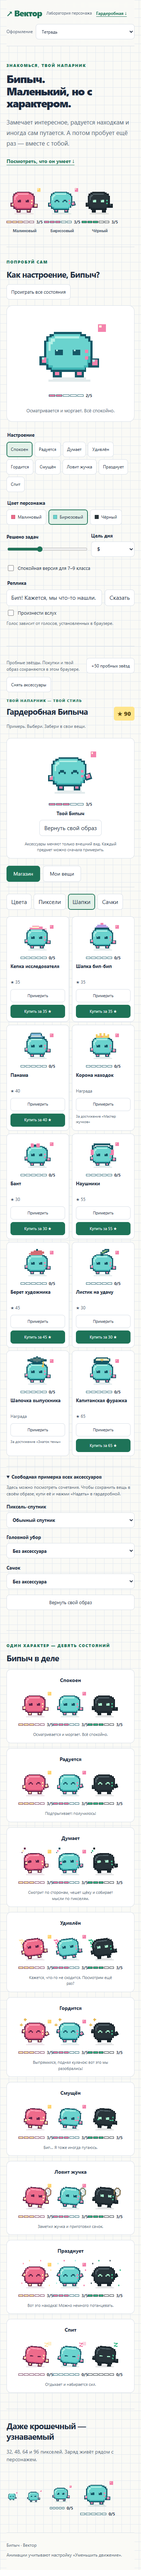
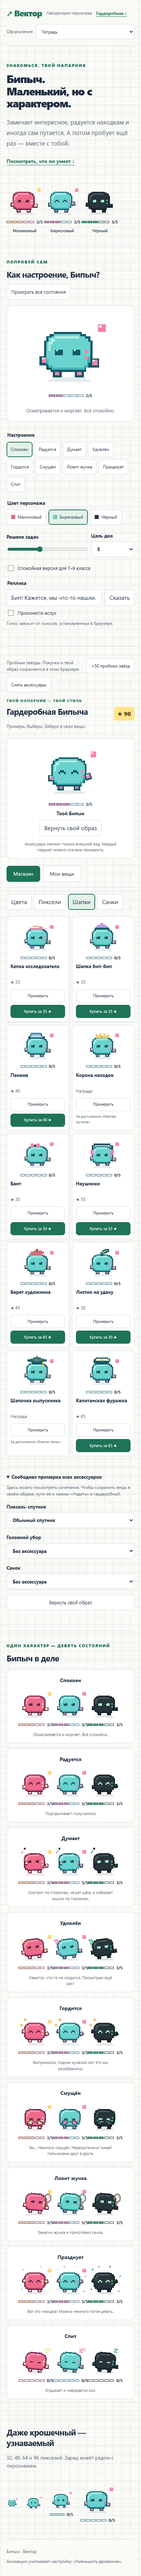
Animate shy fingertip gesture with both paws and parked net

diff --git a/styles/drobik.css b/styles/drobik.css
@@ -7,7 +7,7 @@
 .bipych-actor{transform-origin:50% 100%}
 .bipych-shadow{opacity:.12}
 [data-skin=orbit] .bipych[data-color=black] .bipych-outline{stroke:#77909A;stroke-width:1}
-.bipych-blush,.bipych-question,.bipych-zzz,.bipych-thought,.bipych-pride,.bipych-confetti,.bipych-eyes-happy,.bipych-eyes-sleep,.bipych-net{display:none}
+.bipych-blush,.bipych-question,.bipych-zzz,.bipych-thought,.bipych-pride,.bipych-shy-hands,.bipych-confetti,.bipych-eyes-happy,.bipych-eyes-sleep,.bipych-net{display:none}
 .bipych-hand-right{transform-box:view-box;transform-origin:116px 90px}
 .bipych-net[data-equipped=true]{display:block}
 .bipych[data-state=idle] .bipych-actor{animation:bipych-breathe 4s steps(3,end) infinite}
@@ -35,10 +35,15 @@
 .bipych-pride-star-1{animation-delay:-.3s}
 .bipych[data-state=proud] .bipych-satellite{animation:bipych-proud-pixel var(--bipych-proud-speed) steps(4,end) infinite}
 .bipych[data-state=shy] .bipych-blush{display:block}
-.bipych[data-state=shy] .bipych-eyes-normal{transform:translate(-4px,4px)}
-.bipych[data-state=shy] .bipych-actor{transform:rotate(4deg)}
-.bipych[data-state=shy] .bipych-hand-left{transform:translate(4px,0)}
-.bipych[data-state=shy] .bipych-hand-right{transform:translate(-4px,0)}
+.bipych[data-state=shy]{--bipych-shy-speed:3.2s}
+.bipych[data-state=shy] .bipych-eyes-normal{transform:translate(0,5px) scaleY(.85)}
+.bipych[data-state=shy] .bipych-actor{transform:translateY(2px) rotate(2deg);animation:bipych-shy-sway var(--bipych-shy-speed) steps(4,end) infinite}
+.bipych[data-state=shy] .bipych-hand-left,.bipych[data-state=shy] .bipych-hand-right{visibility:hidden}
+.bipych[data-state=shy] .bipych-shy-hands{display:block}
+.bipych-shy-hand-left,.bipych-shy-hand-right{transform-box:view-box;transform-origin:68px 88px}
+.bipych-shy-hand-left{transform:translateX(3px);animation:bipych-shy-left var(--bipych-shy-speed,3.2s) steps(4,end) infinite}
+.bipych-shy-hand-right{transform:translateX(-3px);animation:bipych-shy-right var(--bipych-shy-speed,3.2s) steps(4,end) infinite}
+.bipych[data-state=shy] .bipych-net[data-equipped=true]{visibility:visible;transform:translate(6px,22px)}
 .bipych[data-state=catching] .bipych-net{display:block}
 .bipych[data-state=catching] .bipych-hand-right{animation:bipych-catch 1.7s steps(5,end) infinite}
 .bipych[data-state=catching] .bipych-actor{transform:rotate(5deg)}
@@ -56,6 +61,7 @@
 .bipych[data-state=sleep] .bipych-satellite{opacity:.35;animation:none}
 .bipych-satellite{animation:bipych-float 3s steps(4,end) infinite}
 .bipych[data-age=senior]{--bipych-hop:-3px;--bipych-think-speed:4s;--bipych-proud-speed:4s}
+.bipych[data-age=senior][data-state=shy]{--bipych-shy-speed:4s}
 .bipych[data-age=senior] .bipych-actor{animation-duration:4s}
 .bipych-charge{display:flex;align-items:center;justify-content:center;gap:6px;width:100%;color:var(--ink,#1E2B40);font-size:11px;font-weight:700;line-height:1.3}
 .bipych-charge-cells{display:grid;grid-template-columns:repeat(var(--bipych-goal,5),minmax(0,1fr));gap:2px;flex:1;max-width:96px}
@@ -79,6 +85,9 @@
 @keyframes bipych-proud-hand{0%,100%{transform:translate(-2px,-6px) rotate(18deg)}20%,45%{transform:translate(-2px,-24px) rotate(8deg)}60%{transform:translate(-2px,-6px) rotate(18deg)}75%{transform:translate(-2px,-16px) rotate(8deg)}}
 @keyframes bipych-proud-glint{0%,10%,65%,100%{opacity:0;transform:translateY(2px) scale(.5)}20%,45%{opacity:1;transform:translateY(-2px) scale(1)}}
 @keyframes bipych-proud-pixel{0%,100%{transform:translateY(0)}20%,40%{transform:translateY(-8px)}65%{transform:translateY(-2px)}}
+@keyframes bipych-shy-left{0%,100%{transform:translateX(0)}25%,40%{transform:translateX(4px)}50%{transform:translateX(1px)}60%,75%{transform:translateX(4px)}90%{transform:translateX(0)}}
+@keyframes bipych-shy-right{0%,100%{transform:translateX(0)}25%,40%{transform:translateX(-4px)}50%{transform:translateX(-1px)}60%,75%{transform:translateX(-4px)}90%{transform:translateX(0)}}
+@keyframes bipych-shy-sway{0%,100%{transform:translateY(2px) rotate(2deg)}35%{transform:translateY(3px) rotate(-1deg)}70%{transform:translateY(2px) rotate(1deg)}}
 @keyframes bipych-question{0%,100%{transform:translateY(0)}50%{transform:translateY(-3px)}}
 @keyframes bipych-catch{0%,100%{transform:translate(0,0)}45%{transform:translate(2px,-4px)}}
 @keyframes bipych-dance{0%,100%{transform:translateY(0) rotate(-3deg)}25%{transform:translateY(var(--bipych-hop)) rotate(3deg)}60%{transform:translateY(0) rotate(3deg)}80%{transform:translateY(var(--bipych-hop)) rotate(-3deg)}}

diff --git a/content/drobik.js b/content/drobik.js
@@ -100,6 +100,10 @@
       : 'M112 38H113V62H112ZM119 38H120V62H119ZM108 44H124V45H108ZM108 55H124V56H108Z';
     var satellite = map.antenna || (map.screen === 'screen-black' ? '' : 'pixel-sun');
     var limb = map.screen === 'screen-black' ? p[3] : p[4];
+    var shyLimb = map.screen === 'screen-black' ? p[2] : limb;
+    var shyHand = path('M32 86H38V82H48V78H54V84H64V90H56V96H52V100H40V96H32Z', p[0], 'bipych-shy-palm') +
+      rect(36, 88, 8, 6, shyLimb) + rect(42, 84, 10, 12, shyLimb) + rect(50, 80, 2, 8, shyLimb) +
+      rect(50, 86, 12, 2, map.screen === 'screen-black' ? p[5] : shyLimb) + rect(42, 84, 4, 4, p[2]);
     var satColor = PIXELS[satellite] || p[4];
     if (!map.antenna && map.screen === 'screen-turquoise') satColor = '#F483AD';
     var eyes = rect(44, 66, 14, 10, p[5]) + rect(76, 66, 14, 10, p[5]) +
@@ -130,6 +134,8 @@
       '<path d="' + netRim + '" fill="' + netColor + '" fill-rule="evenodd" stroke="' + p[0] + '" stroke-width="1" class="bipych-net-rim"/>' +
       '<path d="' + netMesh + '" fill="#6A9284" opacity=".65" class="bipych-net-mesh"/></g>' +
       rect(108, 82, 16, 16, p[0], 'bipych-grip') + rect(111, 84, 10, 10, limb) + rect(112, 84, 4, 4, p[2]) + '</g>' +
+      '<g class="bipych-shy-hands"><g class="bipych-shy-hand-left">' + shyHand +
+      '</g><g class="bipych-shy-hand-right"><g transform="translate(136 0) scale(-1 1)">' + shyHand + '</g></g></g>' +
       '<g class="bipych-question">' + path('M12 32H28V36H32V44H24V52H18V42H26V38H12ZM18 58H24V64H18Z', p[4]) + '</g>' +
       '<g class="bipych-zzz">' + path('M100 16H116V20H112V24H108V28H116V32H100V28H104V24H108V20H100Z', p[4]) + '</g>' +
       '<g class="bipych-thought">' + rect(16, 28, 4, 4, p[0], 'bipych-thought-dot bipych-thought-dot-0') +

diff --git a/assets/drobik/demo.js b/assets/drobik/demo.js
@@ -8,7 +8,7 @@
     'Смотрит по сторонам, чешет щёку и собирает мысли по пикселям.',
     'Кажется, что-то не сходится. Посмотрим ещё раз?',
     'Выпрямился, поднял кулачок: вот это мы разобрались!',
-    'Бип… Я тоже иногда путаюсь.',
+    'Эм… Немного смущён. Нерешительно тыкает пальчиками друг в друга.',
     'Заметил жучка и приготовил сачок.',
     'Вот это находка! Можно немного потанцевать.',
     'Отдыхает и набирается сил.'

diff --git a/tests/codex_visual.py b/tests/codex_visual.py
@@ -106,6 +106,35 @@ async def main():
                 && dim!==getComputedStyle(root.querySelector('.bipych-pride-star')).opacity
                 && getComputedStyle(root.querySelector('.bipych-confetti')).display==='none';
         }"""))
+        check("shy index fingers touch twice and separate on all three colors", await page.evaluate("""() => {
+            for(const screen of ['screen-raspberry','screen-turquoise','screen-black']){
+                contractPet.setCosmetics({screen});contractPet.setState('shy');
+                const root=document.querySelector('#contract-host .bipych');
+                const left=root.querySelector('.bipych-shy-hand-left .bipych-shy-palm');
+                const right=root.querySelector('.bipych-shy-hand-right .bipych-shy-palm');
+                const animations=root.getAnimations({subtree:true});animations.forEach(a=>a.pause());
+                const gap=time=>{
+                    animations.forEach(a=>a.currentTime=time);
+                    const l=new DOMPoint(64,87).matrixTransform(left.getScreenCTM());
+                    const r=new DOMPoint(64,87).matrixTransform(right.getScreenCTM());
+                    return Math.hypot(l.x-r.x,l.y-r.y);
+                };
+                if(!(gap(0)>5 && gap(1000)<.2 && gap(1600)>4 && gap(2200)<.2)
+                    || getComputedStyle(root.querySelector('.bipych-hand-left')).visibility!=='hidden'
+                    || getComputedStyle(root.querySelector('.bipych-blush')).display==='none')return false;
+            }
+            return true;
+        }"""))
+        check("shy frees both paws while keeping the owned net beside him", await page.evaluate("""() => {
+            contractPet.setCosmetics({net:'net-classic'});contractPet.setState('shy');
+            const root=document.querySelector('#contract-host .bipych'),net=root.querySelector('.bipych-net');
+            const visible=getComputedStyle(net).visibility==='visible' && getComputedStyle(net).display!=='none'
+                && getComputedStyle(root.querySelector('.bipych-shy-hands')).display!=='none';
+            contractPet.setState('idle');
+            return visible && getComputedStyle(net).transform==='none'
+                && getComputedStyle(root.querySelector('.bipych-shy-hands')).display==='none'
+                && getComputedStyle(root.querySelector('.bipych-hand-right')).visibility==='visible';
+        }"""))
         check("reworked headwear uses only orthogonal pixel edges", await page.evaluate("""() => {
             for(const hat of ['hat-bucket','hat-graduate','hat-captain','hat-leaf']){
                 contractPet.setCosmetics({hat});contractPet.setState('idle');

diff --git a/docs/art/HANDOFF.md b/docs/art/HANDOFF.md
@@ -41,7 +41,7 @@
     node tests/game.test.js
     node tests/worker.test.mjs
 
-Отдельно проверены: анимации, пиксельная графика и геометрия сачка 51/51, рисунки 15/15, коллекция 54/54, покупки и сохранение гардеробной 31/31, доска 12/12, лендинг и питч 28/28, печать 10/10. Всего 201 проверка, общий запуск зелёный. Существующий e2e — 62/62; 27000 сгенерированных задач без ошибок, остальные модульные проверки зелёные. Соответствие пунктам CX-1…CX-10 перечислено в ACCEPTANCE.md.
+Отдельно проверены: анимации, пиксельная графика и геометрия сачка 53/53, рисунки 15/15, коллекция 54/54, покупки и сохранение гардеробной 31/31, доска 12/12, лендинг и питч 28/28, печать 10/10. Всего 203 проверки, общий запуск зелёный. Существующий e2e — 62/62; 27000 сгенерированных задач без ошибок, остальные модульные проверки зелёные. Соответствие пунктам CX-1…CX-10 перечислено в ACCEPTANCE.md.
 
 Восемь вариантов оформления демо анимаций проверены при 1440/390 px. Коллекция — также при 768 px. Каждый SVG состояния около 5 КБ; модуль персонажа с CSS и модуль рисунков вместе около 37 КБ, ниже лимита 400 КБ. Растровые концепты и снимки лежат только в docs/art и не загружаются продуктом.
 

diff --git a/docs/art/shy-gesture/README.md b/docs/art/shy-gesture/README.md
@@ -1,0 +1,7 @@
+# Жест смущения
+
+В состоянии shy Бипыч опускает взгляд, краснеет и дважды нерешительно касается указательными пальчиками перед собой. Контакт, разведение лапок и повторный контакт образуют цикл 3,2 секунды; у senior — 4 секунды. Отдельная пара пиксельных лапок заменяет боковые, поэтому лишних рук нет.
+
+Купленный сачок в этой позе поставлен рядом; при выходе из shy возвращается в лапку. Владение и экипировка не меняются. Без анимации сохраняется статичная поза с близко сведёнными пальчиками.
+
+Контрольный лист показывает три фазы на трёх цветах и вариант с сачком. Тест проверяет два реальных соприкосновения кончиков, промежуток между ними, скрытие прежних лапок, румянец и сохранение аксессуара. Общий набор — 203 проверки.

diff --git a/docs/art/ACCEPTANCE.md b/docs/art/ACCEPTANCE.md
@@ -13,6 +13,6 @@
 | CX-7 | board.html, 3 слайда, Бипыч, стрелки, ответы, fullscreen | 1280×720, основной текст от 40 px, безопасный HTML |
 | CX-8 | Лендинг и 7 сцен HTML-питча | Телефон, проектор, метрики «Скоро», реальные ссылки |
 | CX-9 | 24 наклейки A4 и 8 карточек входа с четырьмя метками | По одной странице A4 в Chrome; контрольные PDF и PNG |
-| CX-10 | Единая команда tests/codex_visual.py и отдельные наборы | 201 локальная проверка; установка команды в общий workflow остаётся интегратору |
+| CX-10 | Единая команда tests/codex_visual.py и отдельные наборы | 203 локальные проверки; установка команды в общий workflow остаётся интегратору |
 
 Общие файлы приложения, сервер и учебное ядро не изменены. Для слияния и подключения подготовлен HANDOFF.md. Ветки не слиты в main, PR по ограничению владельца не открыт.
